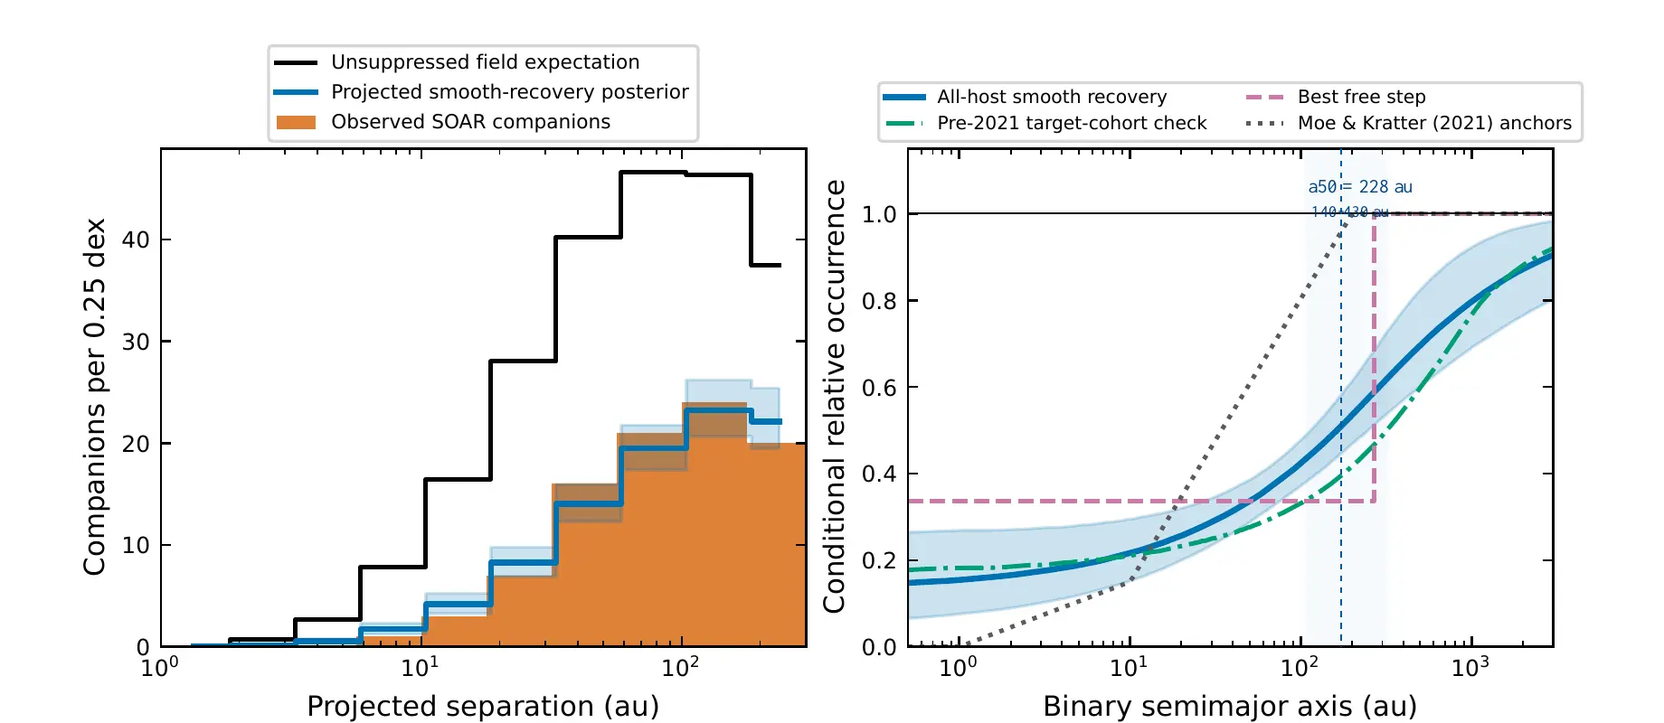
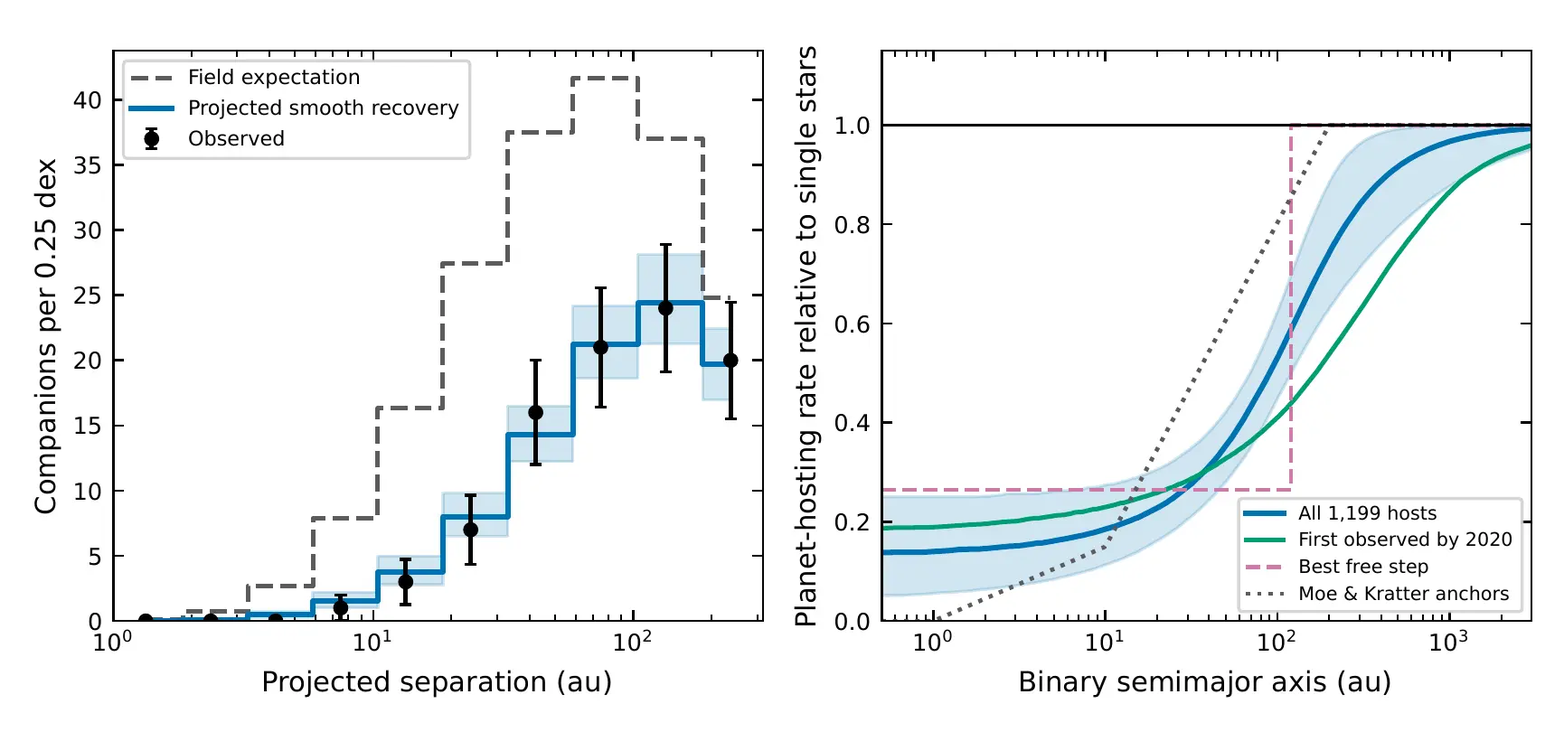
Add files via upload

diff --git a/soar-tess/index.html b/soar-tess/index.html
@@ -3,11 +3,11 @@
 <head>
   <meta charset="utf-8">
   <meta name="viewport" content="width=device-width,initial-scale=1">
-  <meta name="description" content="The SOAR TESS Survey: diffraction-limited speckle imaging of TESS planet-candidate hosts, revealing hidden stellar companions and the strong suppression of planets in close binaries.">
+  <meta name="description" content="The cumulative SOAR TESS Survey: 2,982 targets, 729 resolved-source detections, transit-dilution corrections, and the measured recovery of companion frequency with binary separation.">
   <meta name="theme-color" content="#090d17">
   <link rel="canonical" href="https://carlziegler.space/soar-tess/">
   <link rel="icon" href="../images/telescope.png" type="image/png">
-  <link rel="stylesheet" href="assets/soar-tess.css?v=20260809-3">
+  <link rel="stylesheet" href="assets/soar-tess.css?v=20260810-5">
   <title>SOAR TESS Survey</title>
 </head>
 <body>
@@ -41,10 +41,10 @@
         </div>
       </div>
       <aside class="hero-note reveal visible" aria-label="Cumulative survey summary">
-        <span class="eyebrow">Cumulative draft · Survey III</span>
-        <strong>2,982</strong>
-        <p>unique TESS Input Catalog targets observed with HRCam in the cumulative companion census.</p>
-        <a href="#results">Explore the Paper III results ↓</a>
+        <span class="eyebrow">Survey III · Revision 39</span>
+        <strong>3.5×</strong>
+        <p>fewer nearby sources inside 50 AU than the sensitivity-convolved field-binary model predicts: 24 observed versus 84.6 expected.</p>
+        <a href="#results">Explore the cumulative result ↓</a>
       </aside>
     </div>
     <div class="wrap hero-credit">SOAR beneath the southern sky: CTIO/NOIRLab/NSF/AURA/T. Slovinský. <a href="https://noirlab.edu/public/images/iotw2411a/" target="_blank" rel="noopener">Source ↗</a></div>
@@ -136,7 +136,7 @@
               <div><strong>~56×</strong><span>less sky area</span></div>
             </div>
             <button class="button compact" id="tess-zoom" type="button" aria-pressed="false">Zoom into the 2.8″ SOAR field</button>
-            <p class="paper3-scale-note"><strong>Paper III draft:</strong> for 630 systems with a source inside 3″, the median primary-host planet-radius correction is ×1.070; the 90th-percentile correction is ×1.326.</p>
+            <p class="paper3-scale-note"><strong>Survey III, Revision 39:</strong> for 630 systems with a source inside 3″, the median primary-host planet-radius correction is ×1.070; the 90th-percentile correction is ×1.326.</p>
             <p class="microcopy">The grid subdivides the TESS pixel into 2.8″ comparison fields; those grid cells are not additional TESS detector pixels.</p>
           </div>
         </div>
@@ -181,8 +181,18 @@
     <section class="section" id="results">
       <div class="wrap">
         <div class="section-head reveal">
-          <div><p class="kicker">The cumulative population result</p><h2>Nearby stellar companions are missing from the TOI census.</h2></div>
-          <p>The Paper III draft expands the controlled analysis to 1,199 dwarf primaries and 162 candidate visual companions with empirical mass ratio q ≥ 0.4. It finds a deep close-source deficit relative to a sensitivity-convolved field-binary model, followed by a gradual recovery with separation.</p>
+          <div><p class="kicker">The Revision 39 population result</p><h2>The deficit is deepest nearby—and begins recovering near 100 AU.</h2></div>
+          <p>The controlled analysis compares 162 candidate visual companions around 1,199 dwarf primaries with an empirical q ≥ 0.4 field population passed through each target’s measured sensitivity. Fixed projected-separation counts establish the deficit; a forward model then locates the recovery in physical semimajor axis.</p>
+        </div>
+
+        <div class="recovery-overview reveal" aria-label="Observed companion frequency relative to the field model across separation">
+          <div class="recovery-grid">
+            <article class="recovery-stop deep"><span>Inside 50 AU</span><strong>29%</strong><p>24 observed / 84.6 expected</p></article>
+            <article class="recovery-stop deep-mid"><span>Inside 100 AU</span><strong>36%</strong><p>48 observed / 134.4 expected</p></article>
+            <article class="recovery-stop recovering"><span>100–300 AU</span><strong>74%</strong><p>44 observed / 60.2 expected</p></article>
+            <article class="recovery-stop wide"><span>Gaia · 300–5,000 AU</span><strong>88 / 72.9</strong><p>broadly field-compatible within normalization and selection uncertainties</p></article>
+          </div>
+          <p class="recovery-note">The first three values are SOAR projected-separation measurements. The smooth model below acts on true binary semimajor axis before orbital projection and target-specific HRCam selection.</p>
         </div>
 
         <div class="suppression-lab reveal">
@@ -196,72 +206,87 @@
             </div>
             <div class="suppression-meter" role="img" aria-label="Conditional relative frequency of companions around TESS Objects of Interest compared with field binaries">
               <div class="meter-row"><span>Field expectation</span><i><b></b></i><strong>100%</strong></div>
-              <div class="meter-row observed"><span>TOI hosts</span><i><b id="host-meter"></b></i><strong id="host-percent">32%</strong></div>
+              <div class="meter-row observed"><span>TOI hosts</span><i><b id="host-meter"></b></i><strong id="host-percent">34%</strong></div>
             </div>
           </div>
           <div class="suppression-controls">
-            <span class="eyebrow">Paper III smooth-recovery model</span>
+            <span class="eyebrow">Revision 39 · HRCam-only recovery</span>
             <div class="readout"><strong id="binary-distance">50 AU</strong><span>binary semimajor axis</span></div>
             <label for="binary-separation"><span>5 AU</span><span>3,000 AU</span></label>
             <input id="binary-separation" type="range" min="0" max="1000" value="360" step="1">
-            <div class="model-callout" id="model-callout"><b>Deep deficit.</b> At a 50 AU semimajor axis, the smooth model is about 32% of the field frequency. In the fixed projected-separation count, SOAR sees 24 sources inside 50 AU where 87.2 are expected.</div>
-            <p class="microcopy">The curve uses the draft posterior medians S₀ = 0.129, a₅₀ = 228 AU, and w = 0.518 dex. The 228 AU midpoint is model-dependent—not a hard observed boundary—and the physical planet-occurrence interpretation remains conditional on association, selection, completeness, and candidate reliability.</p>
+            <div class="model-callout" id="model-callout"><b>Deep deficit.</b> At a 50 AU semimajor axis, the smooth model is about 34% of the field frequency. In the fixed projected-separation count, SOAR sees 24 sources inside 50 AU where 84.6 are expected.</div>
+            <p class="microcopy">The HRCam-only curve uses the Revision 39 posterior medians S₀ = 0.128, a₅₀ = 106 AU, and w = 0.293 dex, fitted over 1–300 AU. The midpoint is model-dependent—not a hard boundary—and the physical planet-occurrence interpretation remains conditional on association, selection, completeness, and candidate reliability.</p>
           </div>
         </div>
 
         <div class="finding-grid">
           <article class="finding-card big reveal">
             <div class="card-number">01 · Inside 50 AU</div>
-            <div class="impact-number">3.6×</div>
+            <div class="impact-number">3.5×</div>
             <h3>fewer nearby sources than the field model predicts</h3>
-            <p>SOAR detects 24 sources inside 50 AU in the mass-ratio-matched sample; the target-by-target field model predicts 87.2. The inferred relative frequency is 0.283, with a 16–84% interval of 0.230–0.343.</p>
+            <p>SOAR detects 24 candidate visual companions inside 50 AU; the recalibrated, target-by-target field model predicts 84.6. The inferred relative frequency is S₅₀ = 0.292, with a 16–84% interval of 0.237–0.354.</p>
           </article>
 
           <article class="finding-card reveal">
             <div class="card-number">02 · Inside 100 AU</div>
-            <div class="impact-number gold">3.0×</div>
+            <div class="impact-number gold">2.8×</div>
             <h3>fewer sources remain across a wider aperture</h3>
-            <p>Inside 100 AU, 48 sources are observed where 142.8 are expected. The inferred relative frequency is 0.341, with a 16–84% interval of 0.295–0.392.</p>
+            <p>Inside 100 AU, 48 sources are observed where 134.4 are expected. The inferred relative frequency is S₁₀₀ = 0.362, with a 16–84% interval of 0.313–0.416.</p>
           </article>
 
           <article class="finding-card reveal">
-            <div class="card-number">03 · Continuous recovery</div>
-            <div class="impact-number gold compact-number">228 AU</div>
-            <h3>The transition is gradual, not a single cutoff.</h3>
-            <p>A smooth HRCam-only recovery model is modestly preferred to a refitted step (ΔAIC = 4.7). Its midpoint is a₅₀ = 228 AU, with a 140–430 AU interval; that midpoint describes the model rather than a directly observed boundary.</p>
+            <div class="card-number">03 · The recovery annulus</div>
+            <div class="impact-number gold">74%</div>
+            <h3>The population rises toward the field rate from 100–300 AU.</h3>
+            <p>In this independent projected-separation annulus, 44 sources are observed where the recalibrated field model predicts 60.2. The relative frequency is 0.741, with a 0.637–0.857 interval.</p>
           </article>
 
           <article class="finding-card big figure-card reveal">
-            <div class="card-number">04 · Cumulative recovery model</div>
+            <div class="card-number">04 · Physical recovery scale</div>
             <figure class="result-figure">
-              <img src="images/soar-tess-iii-recovery.webp" alt="Draft Paper III plots comparing observed SOAR companion counts with the field expectation and showing a smooth recovery in relative occurrence with binary semimajor axis" width="1840" height="800" loading="lazy">
-              <figcaption>Observed SOAR counts fall well below the unsuppressed field expectation at small separations. The smooth model recovers toward the field population over a broad range rather than at one hard cutoff. Figure: draft SOAR TESS Survey III.</figcaption>
+              <img src="images/soar-tess-iii-recovery.webp" alt="Revision 39 plots comparing observed SOAR source counts with the field expectation and showing a smooth recovery in planet-hosting rate with binary semimajor axis" width="1730" height="810" loading="lazy">
+              <figcaption>The forward model weights binaries in true semimajor axis before projecting them through each target’s HRCam sensitivity. The HRCam-only midpoint is a₅₀ = 106 AU (77–157 AU); a refitted sharp step has less support by ΔAIC = 3.4. Figure: SOAR TESS Survey III, Revision 39.</figcaption>
+            </figure>
+          </article>
+
+          <article class="finding-card big figure-card reveal">
+            <div class="card-number">05 · SOAR + Gaia</div>
+            <figure class="result-figure">
+              <img src="images/soar-tess-iii-soar-gaia.webp" alt="Revision 39 comparison of observed SOAR and Gaia companions with a smooth suppression-recovery model and a multiplicity-conserving 100 AU shifted binary distribution" width="1600" height="720" loading="lazy">
+              <figcaption>SOAR supplies 92 q ≥ 0.4 sources from 1–300 AU; Gaia supplies 88 common-motion companions from 300–5,000 AU. The wide population is broadly field-compatible, while the missing close systems do not reappear as the excess predicted by a simple outward shift. Figure: SOAR TESS Survey III, Revision 39.</figcaption>
             </figure>
           </article>
 
           <article class="finding-card reveal">
-            <div class="card-number">05 · SOAR + Gaia</div>
-            <div class="impact-number">88</div>
-            <h3>wide companions test where the missing systems went.</h3>
-            <p>Adding 88 Gaia DR3 common-motion companions from 300–5,000 AU disfavors a simple model that conserves total multiplicity by shifting the field distribution outward toward 100 AU. Smooth suppression and recovery better matches the combined census.</p>
+            <div class="card-number">06 · Redistribution test</div>
+            <div class="impact-number model-number">ΔAIC 73.9</div>
+            <h3>A simple shift toward 100 AU is strongly disfavored.</h3>
+            <p>The fully specified, multiplicity-conserving 100 AU shift performs far worse than smooth suppression and recovery. In the Gaia range, 88 companions are observed versus 72.9 expected—a broadly compatible wide population once field normalization and Gaia/TOI selection uncertainties are included.</p>
           </article>
 
           <article class="finding-card big reveal">
-            <div class="card-number">06 · Conditional planet yield</div>
-            <div class="impact-number gold">19.5%</div>
+            <div class="card-number">07 · Conditional planet yield</div>
+            <div class="impact-number gold">17.8%</div>
             <h3>estimated yield lost in the directly measured q ≥ 0.4 domain</h3>
-            <p>The draft translates the smooth suppression curve into a conditional lost-yield estimate of 19.5% for a volume-limited population and 27.7% for a magnitude-limited population. Extrapolating to all mass ratios gives 26.3% and 33.7%. These are model-based translations—not end-to-end measurements of TESS occurrence.</p>
+            <p>Conditionally interpreting the recovery law as relative planet occurrence gives a 17.8% lost yield for a volume-limited population and 25.5% for a magnitude-limited population. Extrapolating below the measured mass-ratio limit gives 24.3% and 31.3%. These are population translations—not end-to-end TESS injection–recovery measurements.</p>
           </article>
 
-          <article class="finding-card big reveal">
-            <div class="card-number">07 · Blended-light corrections</div>
+          <article class="finding-card reveal">
+            <div class="card-number">08 · Blended-light corrections</div>
             <div class="impact-number compact-number">×1.070</div>
             <h3>median primary-host planet-radius correction</h3>
             <p>For 630 systems with at least one source inside 3″, the median radius correction is ×1.070, the 90th percentile is ×1.326, and the maximum is ×1.456. At fixed planet mass, the median and 90th-percentile corrections reduce inferred density by 18% and 57%.</p>
           </article>
 
           <article class="finding-card reveal">
-            <div class="card-number">08 · M-dwarf check</div>
+            <div class="card-number">09 · Hidden hierarchies</div>
+            <div class="impact-number">7</div>
+            <h3>wide systems show radial-velocity evidence for unseen inner structure.</h3>
+            <p>Among jointly covered hosts with a SOAR component at 300–5,000 AU, nine trigger the <em>paired</em> Gaia RVS-noise threshold and seven of those are not RUWE flagged. Because the imaged wide star cannot cause short-timescale velocity noise, these are candidates for an additional inner subsystem.</p>
+          </article>
+
+          <article class="finding-card big reveal">
+            <div class="card-number">10 · M-dwarf check</div>
             <div class="mdwarf-viz" aria-hidden="true"><span></span><i></i><b></b></div>
             <h3>The qualitative deficit extends to small stars.</h3>
             <p>Among 89 M-dwarf hosts, SOAR sees 2 sources inside 50 AU where 16.7 are expected, for a relative frequency of 0.160. The sample supports the same qualitative pattern, but is not yet a calibrated common suppression amplitude across stellar masses.</p>
@@ -274,7 +299,7 @@
       <div class="wrap">
         <div class="section-head reveal">
           <div><p class="kicker">The survey series</p><h2>From the first 542 hosts to a 2,982-target census.</h2></div>
-          <p>Papers I and II established the survey and its first population result. The draft third paper consolidates every HRCam epoch, adds the post-Paper-II measurements, applies an empirical mass-ratio selection, and tests a continuous recovery model with Gaia’s wide-companion census.</p>
+          <p>Papers I and II established the survey and its first population result. Revision 39 of the third paper consolidates every HRCam epoch, calibrates the field comparison for resolved-target selection and wide-binary mass ratios, fits the recovery in physical semimajor axis, and uses Gaia to test whether the missing close systems were merely redistributed outward.</p>
         </div>
 
         <div class="paper-timeline">
@@ -305,9 +330,9 @@
             <div class="paper-copy">
               <p class="eyebrow">2,982 unique TIC targets · 431 post-Paper-II measurements</p>
               <h3>SOAR TESS Survey. III: The Cumulative Companion Census and Close-Binary Demographics of TESS Objects of Interest</h3>
-              <p>The cumulative draft reports 729 latest-epoch component detections around 688 hosts, quantifies the close-source deficit in a 1,199-primary controlled sample, favors a gradual recovery over a hard cutoff, combines SOAR with Gaia at wide separations, and updates both transit-dilution and conditional lost-yield estimates.</p>
+              <p>The cumulative draft reports 729 latest-epoch source detections around 688 hosts. Revision 39 measures S₅₀ = 0.292 and S₁₀₀ = 0.362, locates the HRCam-only recovery midpoint at 106 AU, finds the wide Gaia population broadly field-compatible, and strongly rejects a multiplicity-conserving shift of the field distribution toward 100 AU.</p>
               <p class="authors"><strong>Carl Ziegler</strong>, Andrei Tokovinin, César Briceño, Nicholas M. Law, Andrew W. Mann.</p>
-              <div class="paper-links"><a href="#results">Explore the draft results ↑</a><span class="draft-badge">Draft · submitted to AJ</span></div>
+              <div class="paper-links"><a href="#results">Explore the draft results ↑</a><span class="draft-badge">Revision 39 · submitted to AJ</span></div>
             </div>
           </article>
         </div>
@@ -343,6 +368,6 @@
     </div>
   </footer>
 
-  <script src="assets/soar-tess.js?v=20260809-4"></script>
+  <script src="assets/soar-tess.js?v=20260810-5"></script>
 </body>
 </html>

diff --git a/soar-tess/assets/soar-tess.css b/soar-tess/assets/soar-tess.css
@@ -106,6 +106,20 @@ img { max-width: 100%; height: auto; display: block; }
 .section-head h2 { margin: 0; font-size: clamp(2.15rem, 4vw, 4.05rem); line-height: 1.02; letter-spacing: -.055em; }
 .section-head > p { margin: 0; color: var(--muted); font-size: .98rem; }
 
+.recovery-overview { margin: -6px 0 22px; padding: 18px; border: 1px solid rgba(115,226,209,.2); border-radius: 20px; background: linear-gradient(135deg, rgba(24,37,51,.86), rgba(10,19,30,.88)); overflow: hidden; }
+.recovery-grid { position: relative; display: grid; grid-template-columns: repeat(4, 1fr); }
+.recovery-grid::before { content: ""; position: absolute; left: 8%; right: 8%; top: 62px; height: 2px; background: linear-gradient(90deg, var(--orange), var(--gold) 44%, var(--teal)); opacity: .58; }
+.recovery-stop { position: relative; z-index: 1; min-height: 165px; padding: 18px 16px 14px; border-right: 1px solid var(--line); background: radial-gradient(circle at 50% 45px, rgba(255,150,104,.09), transparent 56px); }
+.recovery-stop:last-child { border-right: 0; }
+.recovery-stop::before { content: ""; position: absolute; left: 50%; top: 39px; width: 10px; height: 10px; transform: translateX(-50%); border: 3px solid #172334; border-radius: 50%; background: var(--orange); box-shadow: 0 0 0 2px rgba(255,150,104,.28), 0 0 18px rgba(255,150,104,.25); }
+.recovery-stop.deep-mid::before { background: var(--gold); }
+.recovery-stop.recovering::before, .recovery-stop.wide::before { background: var(--teal); box-shadow: 0 0 0 2px rgba(115,226,209,.25), 0 0 18px rgba(115,226,209,.22); }
+.recovery-stop > span { display: block; min-height: 30px; color: #c8d4df; font-size: .67rem; font-weight: 800; text-transform: uppercase; letter-spacing: .11em; text-align: center; }
+.recovery-stop strong { display: block; margin-top: 30px; color: var(--text); font-size: clamp(2.15rem, 4.2vw, 3.45rem); line-height: 1; letter-spacing: -.065em; text-align: center; }
+.recovery-stop.wide strong { color: var(--teal); font-size: clamp(1.65rem, 3.2vw, 2.5rem); letter-spacing: -.04em; }
+.recovery-stop p { margin: 10px 0 0; color: var(--muted); font-size: .68rem; line-height: 1.35; text-align: center; }
+.recovery-note { margin: 8px 10px 0; padding-top: 13px; border-top: 1px solid var(--line); color: #778798; font-size: .69rem; line-height: 1.45; text-align: center; }
+
 .instrument-story { display: grid; grid-template-columns: 1.13fr .87fr; border: 1px solid var(--line); border-radius: 22px; overflow: hidden; background: var(--surface); }
 .instrument-photo { margin: 0; position: relative; min-height: 550px; overflow: hidden; }
 .instrument-photo img { width: 100%; height: 100%; object-fit: cover; }
@@ -223,6 +237,7 @@ input[type="range"] { width: 100%; accent-color: var(--gold); cursor: pointer; }
 .impact-number { color: var(--teal); font-size: clamp(4.7rem, 10vw, 7.8rem); font-weight: 850; line-height: .8; letter-spacing: -.08em; margin: 38px 0 28px; text-shadow: 0 0 45px rgba(115,226,209,.12); }
 .impact-number.gold { color: var(--gold); text-shadow: 0 0 45px rgba(255,198,109,.12); }
 .impact-number.compact-number { font-size: clamp(3.65rem, 7vw, 5.5rem); letter-spacing: -.065em; }
+.impact-number.model-number { font-size: clamp(2.7rem, 5vw, 4rem); letter-spacing: -.055em; white-space: nowrap; }
 .cleaning-viz { display: grid; grid-template-columns: 1fr 46px 1fr; align-items: center; gap: 10px; margin: 48px 0 44px; color: var(--muted); font-size: .72rem; text-align: center; }
 .cleaning-viz span, .cleaning-viz b { padding: 14px 8px; border: 1px solid var(--line); border-radius: 10px; background: rgba(255,255,255,.03); }
 .cleaning-viz b { color: var(--teal); border-color: rgba(115,226,209,.28); background: rgba(115,226,209,.065); }
@@ -297,6 +312,11 @@ input[type="range"] { width: 100%; accent-color: var(--gold); cursor: pointer; }
   .section { padding: 80px 0; }
   .section-head { grid-template-columns: 1fr; gap: 20px; }
   .instrument-story, .acf-story, .tess-scale-card, .speckle-lab, .suppression-lab { grid-template-columns: 1fr; }
+  .recovery-grid { grid-template-columns: repeat(2, 1fr); }
+  .recovery-grid::before { display: none; }
+  .recovery-stop { border-bottom: 1px solid var(--line); }
+  .recovery-stop:nth-child(2) { border-right: 0; }
+  .recovery-stop:nth-child(n+3) { border-bottom: 0; }
   .instrument-photo { min-height: 430px; }
   .tess-scale-copy, .speckle-controls, .suppression-controls { order: -1; }
   .tess-scale-visual { min-height: 470px; }
@@ -322,6 +342,9 @@ input[type="range"] { width: 100%; accent-color: var(--gold); cursor: pointer; }
   .tess-pixel { max-width: 340px; }
   .scale-facts > div { min-height: 76px; padding: 10px; }
   .scale-facts strong { font-size: 1.08rem; }
+  .recovery-grid { grid-template-columns: 1fr; }
+  .recovery-stop { min-height: 145px; border-right: 0; border-bottom: 1px solid var(--line) !important; }
+  .recovery-stop:last-child { border-bottom: 0 !important; }
   .dilution-flow { grid-template-columns: 1fr; }
   .dilution-flow i { transform: rotate(90deg); }
   .speckle-stage { min-height: 390px; }

diff --git a/index.html b/index.html
@@ -4716,7 +4716,7 @@
 <h2>Finding signal in crowded skies.</h2>
 </div>
 <p>
-            Space telescopes discover planets by measuring tiny changes in starlight, but neighboring stars can blur the picture. The SOAR TESS Survey provides direct evidence that planets are suppressed by nearly a factor of seven in close Sun-like binaries. Because roughly half of Sun-like stars have stellar companions, binary suppression removes a substantial share of potential planet-forming environments; if it is ignored, magnitude-limited surveys can overestimate planet occurrence by about a factor of two.
+            Space telescopes discover planets by measuring tiny changes in starlight, but neighboring stars can blur the picture. The cumulative SOAR TESS Survey finds 3.5 times fewer nearby sources inside 50 AU and 2.8 times fewer inside 100 AU than a sensitivity-convolved field-binary model predicts, with the companion frequency recovering toward the field population at wider separations. The primary measurement is resolved-source frequency among selected TESS Objects of Interest; its planet-occurrence interpretation remains conditional on association, selection, and transit completeness.
           </p>
 </div>
 <div class="split reveal">
@@ -4826,7 +4826,7 @@
 <div class="survey-metrics" role="list" aria-label="SOAR TESS Survey highlights">
 <div class="survey-metric" role="listitem"><strong>2,982</strong><span>unique targets in the cumulative survey</span></div>
 <div class="survey-metric" role="listitem"><strong>729</strong><span>latest-epoch source detections</span></div>
-<div class="survey-metric" role="listitem"><strong>3.6×</strong><span>fewer sources inside 50 AU than expected</span></div>
+<div class="survey-metric" role="listitem"><strong>3.5×</strong><span>fewer sources inside 50 AU than expected</span></div>
 </div>
 <div class="card-links">
 <a class="text-link" href="soar-tess/#results">
@@ -5353,9 +5353,9 @@
 <span class="ai-paper-method">Ground truth and bias correction</span>
 <h4>Building the evidence trustworthy models require</h4>
 <p>
-                The SOAR TESS Survey provides a complementary foundation for data-driven science: independently validated observations, false-positive screening, sensitivity limits, and selection-effect corrections. The survey found that detected planets are suppressed by nearly a factor of seven in close solar-type binaries and that neglecting this effect can bias occurrence-rate estimates by about a factor of two.
+                The SOAR TESS Survey provides a complementary foundation for data-driven science: independently validated observations, false-positive screening, target-specific sensitivity, and explicit selection-effect corrections. Its cumulative analysis finds 24 nearby sources inside 50 AU where 84.6 are expected and uses SOAR plus Gaia to distinguish genuine close-source depletion from a simple outward redistribution of binaries.
               </p>
-<a class="text-link" href="https://ui.adsabs.harvard.edu/abs/2021AJ....162..192Z/abstract" rel="noopener" target="_blank">Read SOAR TESS Survey II <svg aria-hidden="true" fill="none" stroke="currentColor" stroke-width="2" viewbox="0 0 24 24"><path d="M5 12h14M13 6l6 6-6 6"></path></svg></a>
+<a class="text-link" href="soar-tess/#results">Explore the cumulative SOAR TESS results <svg aria-hidden="true" fill="none" stroke="currentColor" stroke-width="2" viewbox="0 0 24 24"><path d="M5 12h14M13 6l6 6-6 6"></path></svg></a>
 </article>
 </div>
 <p class="ai-contribution-note"><strong>The common thread:</strong> computational methods are most useful when they are paired with domain knowledge, interpretable uncertainty, independent observations, and careful validation. That combination is central to how I think about the future of AI-enabled science.</p>

diff --git a/soar-tess/assets/soar-tess.js b/soar-tess/assets/soar-tess.js
@@ -277,9 +277,9 @@
     const minLog = Math.log10(5);
     const maxLog = Math.log10(3000);
     const distance = Math.round(Math.pow(10, minLog + (sliderPosition / 1000) * (maxLog - minLog)));
-    const s0 = 0.129;
-    const a50 = 228;
-    const widthDex = 0.518;
+    const s0 = 0.128;
+    const a50 = 106;
+    const widthDex = 0.293;
     const logistic = 1 / (1 + Math.exp(-(Math.log10(distance) - Math.log10(a50)) / widthDex));
     const occurrence = Math.round((s0 + (1 - s0) * logistic) * 100);
     const scaledX = 18 + (sliderPosition / 1000) * 48;
@@ -295,13 +295,13 @@
 
     if (!modelCallout) return;
     if (distance <= 50) {
-      modelCallout.innerHTML = `<b>Deep deficit.</b> At ${distance} AU, the smooth model is about ${occurrence}% of the field frequency. In the fixed projected-separation count, SOAR sees 24 sources inside 50 AU where 87.2 are expected.`;
+      modelCallout.innerHTML = `<b>Deep deficit.</b> At ${distance} AU, the smooth model is about ${occurrence}% of the field frequency. In the fixed projected-separation count, SOAR sees 24 sources inside 50 AU where 84.6 are expected.`;
     } else if (distance <= 100) {
-      modelCallout.innerHTML = `<b>Still strongly suppressed.</b> At ${distance} AU, the smooth model is about ${occurrence}% of the field frequency. Inside 100 AU, the fixed count is 48 observed sources versus 142.8 expected.`;
+      modelCallout.innerHTML = `<b>Recovery is underway.</b> At ${distance} AU, the smooth model reaches about ${occurrence}% of the field frequency. Inside 100 AU, the fixed projected count is 48 observed sources versus 134.4 expected.`;
     } else if (distance <= 500) {
-      modelCallout.innerHTML = `<b>Gradual recovery.</b> At ${distance} AU, the smooth model reaches about ${occurrence}% of the field frequency. Its model-dependent halfway scale is 228 AU, not a hard boundary.`;
+      modelCallout.innerHTML = `<b>Rapid recovery zone.</b> At ${distance} AU, the smooth model reaches about ${occurrence}% of the field frequency. Its model-dependent halfway scale is 106 AU; in the independent 100–300 AU projected annulus, the measured frequency is 74% of the field expectation.`;
     } else {
-      modelCallout.innerHTML = `<b>Approaching the field population.</b> At ${distance.toLocaleString()} AU, the smooth model reaches about ${occurrence}% of the field frequency. Gaia's wide-companion census constrains this part of the recovery.`;
+      modelCallout.innerHTML = `<b>Outer extrapolation.</b> At ${distance.toLocaleString()} AU, the HRCam-only curve is about ${occurrence}% of the field frequency, but it was fitted only through 300 AU. Gaia independently supplies the wide-separation test.`;
     }
   }
 
